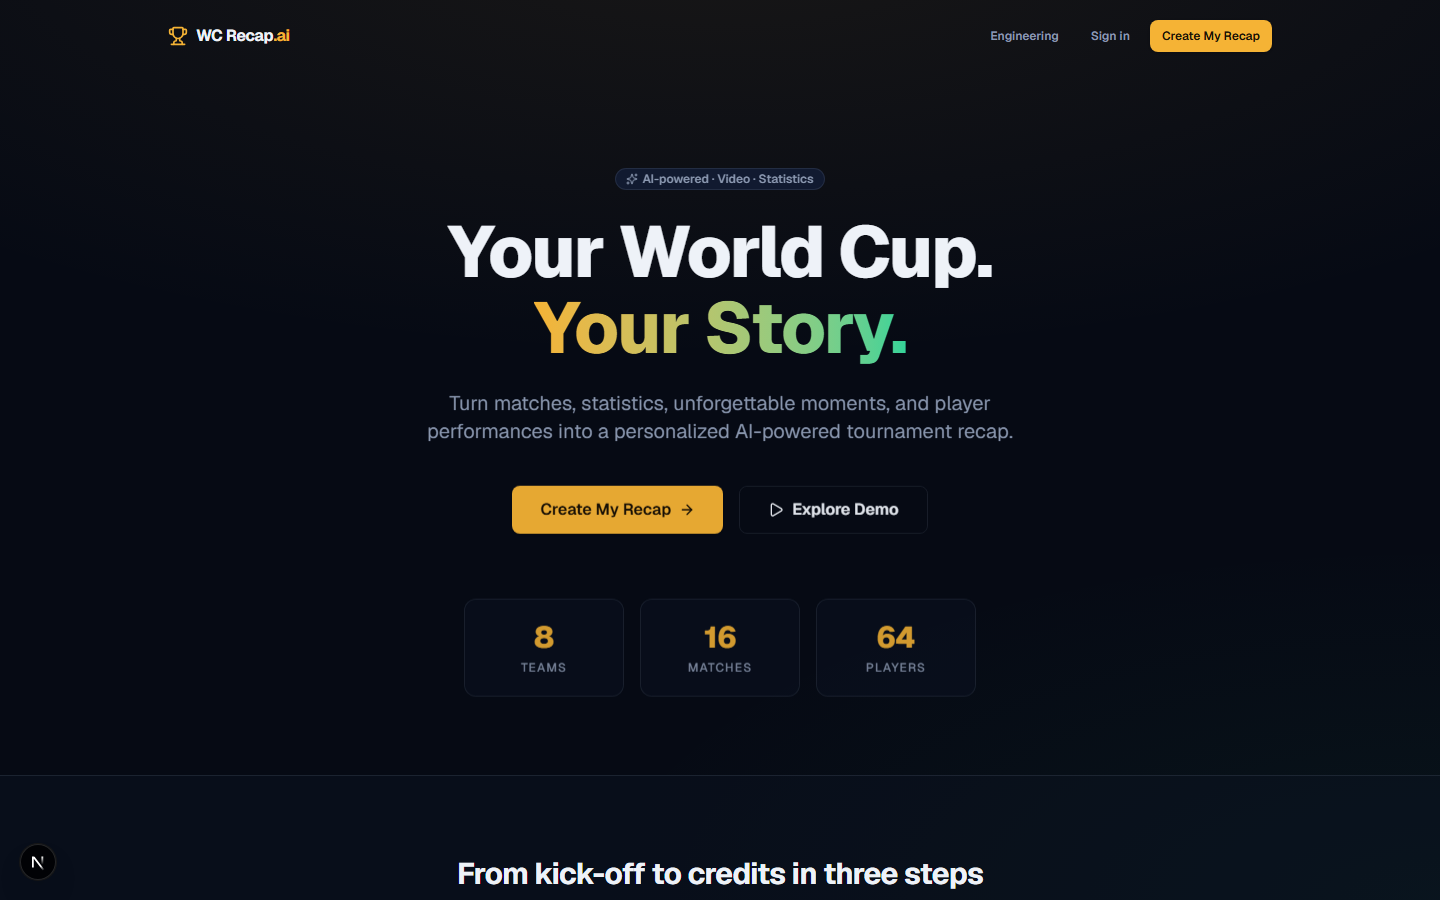
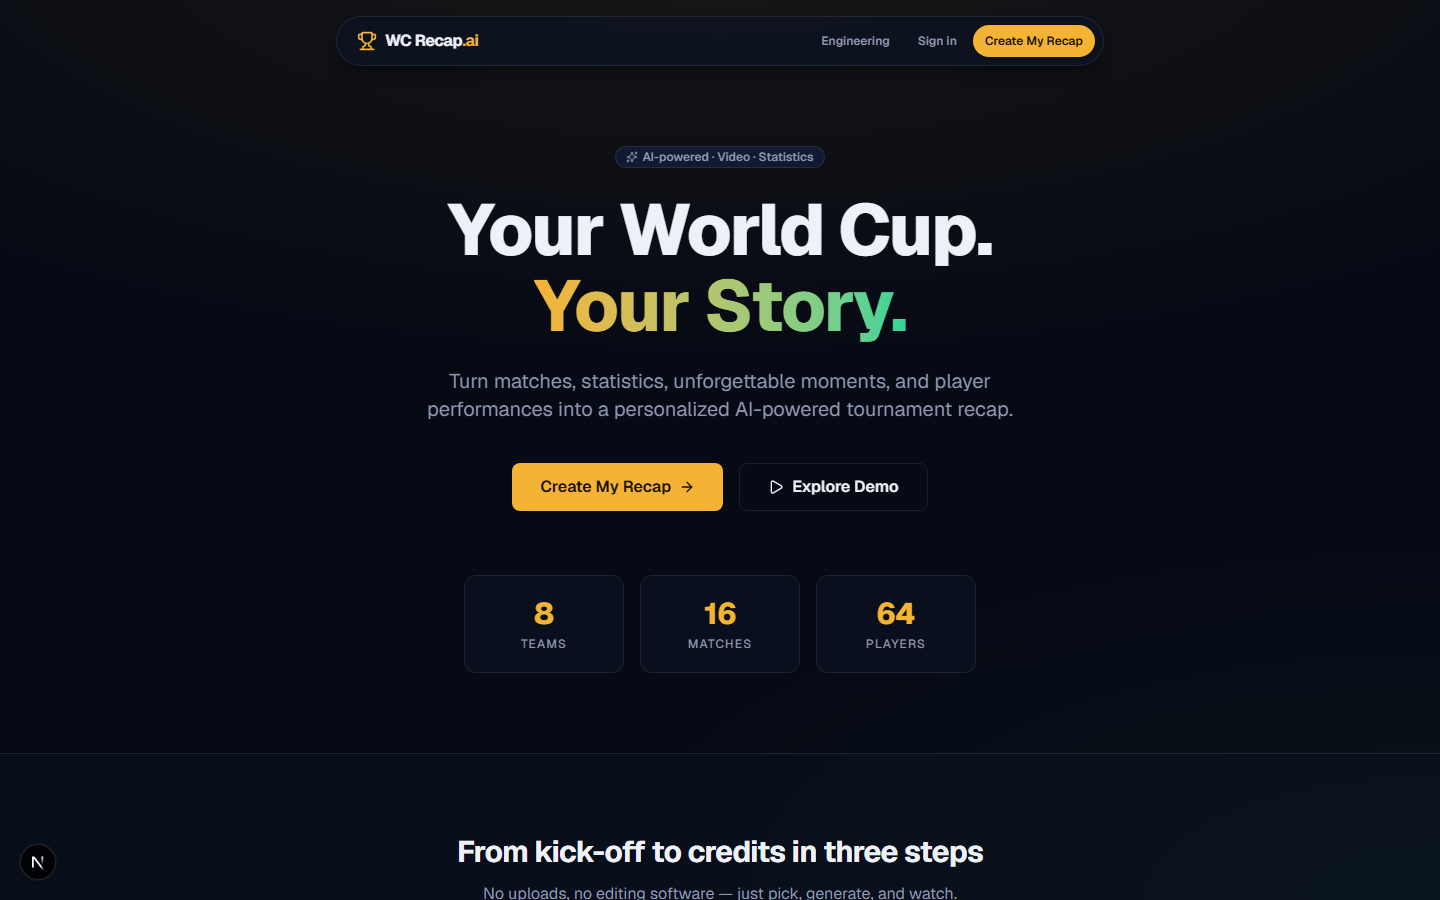
feat: centered glass pill navbar + full-viewport hero on landing
Header was edge-justified while all content is center-aligned, which read
as misaligned; nav now lives in a centered glass pill matching the hero
column, and the hero vertically fills the first viewport.

Generated with [Devin](https://devin.ai)

diff --git a/app/page.tsx b/app/page.tsx
@@ -90,28 +90,45 @@ export default async function LandingPage() {
   ]);
 
   return (
-    <main>
-      {/* ── Nav ── */}
-      <header className="mx-auto flex w-full max-w-6xl items-center justify-between px-6 py-5">
-        <Link href="/" className="flex items-center gap-2 whitespace-nowrap font-bold tracking-tight">
-          <Trophy className="size-5 text-accent" aria-hidden />
-          <span>WC Recap<span className="text-accent">.ai</span></span>
-        </Link>
-        <nav className="flex items-center gap-2" aria-label="Primary">
-          <Button variant="ghost" size="sm" asChild className="hidden md:inline-flex">
-            <Link href="/engineering">Engineering</Link>
-          </Button>
-          <Button variant="ghost" size="sm" asChild className="hidden sm:inline-flex">
-            <Link href="/login">Sign in</Link>
-          </Button>
-          <Button size="sm" asChild>
-            <Link href="/create">Create My Recap</Link>
-          </Button>
-        </nav>
+    <main className="flex min-h-[100dvh] flex-col">
+      {/* ── Nav — centered glass pill, aligned with the hero column ── */}
+      <header className="sticky top-0 z-40 w-full px-4 pt-4">
+        <div className="mx-auto flex max-w-3xl items-center justify-between gap-4 rounded-full border border-border bg-surface/80 py-2 pl-5 pr-2 shadow-lg shadow-black/30 backdrop-blur-md">
+          <Link
+            href="/"
+            className="flex items-center gap-2 whitespace-nowrap font-bold tracking-tight"
+          >
+            <Trophy className="size-5 text-accent" aria-hidden />
+            <span>
+              WC Recap<span className="text-accent">.ai</span>
+            </span>
+          </Link>
+          <nav className="flex items-center gap-1" aria-label="Primary">
+            <Button
+              variant="ghost"
+              size="sm"
+              asChild
+              className="hidden rounded-full md:inline-flex"
+            >
+              <Link href="/engineering">Engineering</Link>
+            </Button>
+            <Button
+              variant="ghost"
+              size="sm"
+              asChild
+              className="hidden rounded-full sm:inline-flex"
+            >
+              <Link href="/login">Sign in</Link>
+            </Button>
+            <Button size="sm" asChild className="rounded-full">
+              <Link href="/create">Create My Recap</Link>
+            </Button>
+          </nav>
+        </div>
       </header>
 
-      {/* ── Hero ── */}
-      <section className="mx-auto flex w-full max-w-6xl flex-col items-center px-6 pb-20 pt-16 text-center md:pt-24">
+      {/* ── Hero — fills the first viewport, vertically centered ── */}
+      <section className="mx-auto flex w-full max-w-6xl flex-1 flex-col items-center justify-center px-6 py-16 text-center md:py-20">
         <Badge variant="secondary" className="mb-6 animate-fade-in-up">
           <Sparkles className="size-3" aria-hidden /> AI-powered · Video · Statistics
         </Badge>
